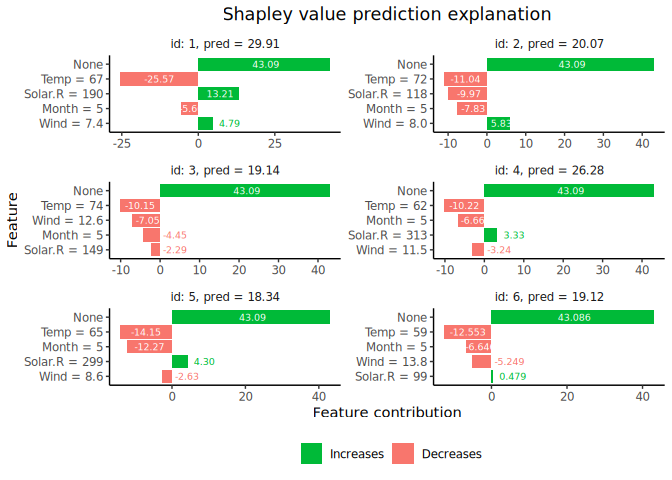
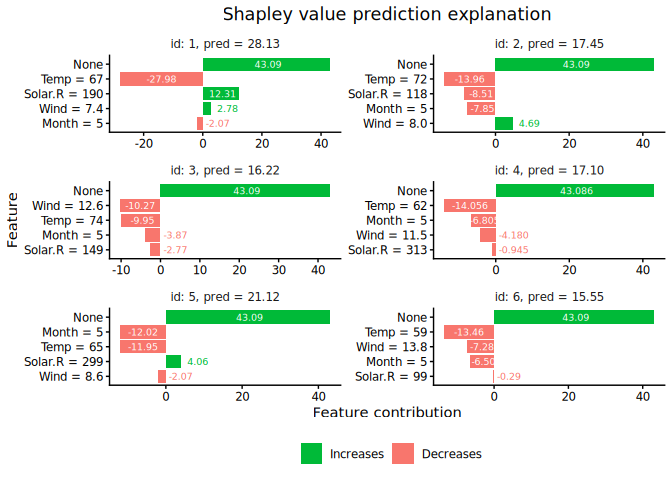
readme

diff --git a/README.md b/README.md
@@ -160,15 +160,15 @@ x_explain <- data[ind_x_explain, ..x_var]
 
 # Look at the dependence between the features
 cor(x_train)
-#>            Solar.R       Wind       Temp      Month
-#> Solar.R  1.0000000 -0.1243826  0.3333554 -0.0710397
-#> Wind    -0.1243826  1.0000000 -0.5152133 -0.2013740
-#> Temp     0.3333554 -0.5152133  1.0000000  0.3400084
-#> Month   -0.0710397 -0.2013740  0.3400084  1.0000000
+#>          Solar.R     Wind     Temp    Month
+#> Solar.R  1.00000 -0.12438  0.33336 -0.07104
+#> Wind    -0.12438  1.00000 -0.51521 -0.20137
+#> Temp     0.33336 -0.51521  1.00000  0.34001
+#> Month   -0.07104 -0.20137  0.34001  1.00000
 
 # Fit a basic xgboost model to the training data
 model <- xgboost(
-  x = as.matrix(x_train),
+  x = x_train,
   y = y_train,
   nround = 20,
   verbosity = 0
@@ -188,18 +188,15 @@ explanation <- explain(
   seed = 1
 )
 #> 
-#> ── Starting `shapr::explain()` at 2025-08-20 15:08:39 ─────────────────────
-#> ℹ Feature classes extracted from the model contains `NA`.
-#>   Assuming feature classes from the data are correct.
-#> ℹ `max_n_coalitions` is `NULL` or larger than or `2^n_features = 16`, and
-#>   is therefore set to `2^n_features = 16`.
+#> ── Starting `shapr::explain()` at 2025-12-19 20:23:45 ────────────────────────────────────────────────────────────────────────────────────────────────────
+#> ℹ `max_n_coalitions` is `NULL` or larger than `2^n_features = 16`, and is therefore set to `2^n_features = 16`.
 #> 
 #> 
 #> ── Explanation overview ──
 #> 
 #> 
 #> 
-#> • Model class: <xgb.Booster>
+#> • Model class: <xgboost>
 #> 
 #> • v(S) estimation class: Monte Carlo integration
 #> 
@@ -213,8 +210,7 @@ explanation <- explain(
 #> 
 #> • Number of observations to explain: 6
 #> 
-#> • Computations (temporary) saved at:
-#> '/tmp/RtmpnBYv2R/shapr_obj_2aa833a1e2267.rds'
+#> • Computations (temporary) saved at: '/tmp/RtmpoBlul8/shapr_obj_3ba1e1ff6f71d.rds'
 #> 
 #> 
 #> 
@@ -226,22 +222,21 @@ explanation <- explain(
 
 # Print the Shapley values for the observations to explain.
 print(explanation)
-#>    explain_id  none Solar.R  Wind  Temp  Month
-#>         <int> <num>   <num> <num> <num>  <num>
-#> 1:          1  43.1  13.212  4.79 -25.6  -5.60
-#> 2:          2  43.1  -9.973  5.83 -11.0  -7.83
-#> 3:          3  43.1  -2.292 -7.05 -10.2  -4.45
-#> 4:          4  43.1   3.325 -3.24 -10.2  -6.66
-#> 5:          5  43.1   4.304 -2.63 -14.2 -12.27
-#> 6:          6  43.1   0.479 -5.25 -12.6  -6.65
+#>    explain_id  none Solar.R   Wind   Temp  Month
+#>         <int> <num>   <num>  <num>  <num>  <num>
+#> 1:          1  43.1  12.315   2.78 -27.98  -2.07
+#> 2:          2  43.1  -8.514   4.69 -13.96  -7.85
+#> 3:          3  43.1  -2.767 -10.27  -9.95  -3.87
+#> 4:          4  43.1  -0.945  -4.18 -14.06  -6.80
+#> 5:          5  43.1   4.058  -2.07 -11.94 -12.02
+#> 6:          6  43.1  -0.290  -7.28 -13.46  -6.50
 
 # Provide a formatted summary of the shapr object
 summary(explanation)
 #> 
-#> ── Summary of Shapley value explanation ───────────────────────────────────
-#> • Computed with`shapr::explain()` in 2.2 seconds, started 2025-08-20
-#> 15:08:39
-#> • Model class: <xgb.Booster>
+#> ── Summary of Shapley value explanation ──────────────────────────────────────────────────────────────────────────────────────────────────────────────────
+#> • Computed with `shapr::explain()` in 5.1 seconds, started 2025-12-19 20:23:45
+#> • Model class: <xgboost>
 #> • v(S) estimation class: Monte Carlo integration
 #> • Approach: empirical
 #> • Procedure: Non-iterative
@@ -249,20 +244,19 @@ summary(explanation)
 #> • Number of feature-wise Shapley values: 4
 #> • Number of observations to explain: 6
 #> • Number of coalitions used: 16 (of total 16)
-#> • Computations (temporary) saved at:
-#> '/tmp/RtmpnBYv2R/shapr_obj_2aa833a1e2267.rds'
+#> • Computations (temporary) saved at: '/tmp/RtmpoBlul8/shapr_obj_3ba1e1ff6f71d.rds'
 #> 
 #> ── Estimated Shapley values 
 #>    explain_id   none Solar.R   Wind   Temp  Month
 #>         <int> <char>  <char> <char> <char> <char>
-#> 1:          1  43.09   13.21   4.79 -25.57  -5.60
-#> 2:          2  43.09   -9.97   5.83 -11.04  -7.83
-#> 3:          3  43.09   -2.29  -7.05 -10.15  -4.45
-#> 4:          4  43.09    3.33  -3.24 -10.22  -6.66
-#> 5:          5  43.09    4.30  -2.63 -14.15 -12.27
-#> 6:          6  43.09    0.48  -5.25 -12.55  -6.65
+#> 1:          1  43.09   12.31   2.78 -27.98  -2.07
+#> 2:          2  43.09   -8.51   4.69 -13.96  -7.85
+#> 3:          3  43.09   -2.77 -10.27  -9.95  -3.87
+#> 4:          4  43.09   -0.95  -4.18 -14.06  -6.80
+#> 5:          5  43.09    4.06  -2.07 -11.94 -12.02
+#> 6:          6  43.09   -0.29  -7.28 -13.46  -6.50
 #> ── Estimated MSEv 
-#> Estimated MSE of v(S) = 144 (with sd = 64)
+#> Estimated MSE of v(S) = 208 (with sd = 116)
 
 # Finally, we plot the resulting explanations
 plot(explanation)
